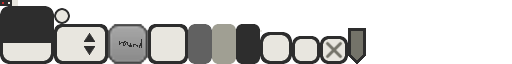
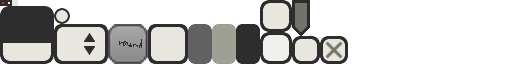
Improved menu background and locked level textures

diff --git a/core/src/com/game/mygame/LevelMenu.java b/core/src/com/game/mygame/LevelMenu.java
@@ -1,6 +1,7 @@
 package com.game.mygame;
 
 import com.badlogic.gdx.audio.Sound;
+import com.badlogic.gdx.graphics.Color;
 import com.badlogic.gdx.graphics.g2d.NinePatch;
 import com.badlogic.gdx.scenes.scene2d.Actor;
 import com.badlogic.gdx.scenes.scene2d.InputEvent;
@@ -35,8 +36,9 @@ public class LevelMenu extends Table {
 				"default", TextButton.TextButtonStyle.class);
 		lockedStyle = new TextButton.TextButtonStyle(unlockedStyle);
 		NinePatch backgroundPatch =
-				game.getSkin().get("menu-background", NinePatch.class);
+				game.getSkin().get("level-locked", NinePatch.class);
 		lockedStyle.up = new NinePatchDrawable(backgroundPatch);
+		lockedStyle.fontColor = Color.CLEAR;
 
 		// Difficulty buttons
 		TextButton normalButton = new TextButton("Normal", selectStyle);
